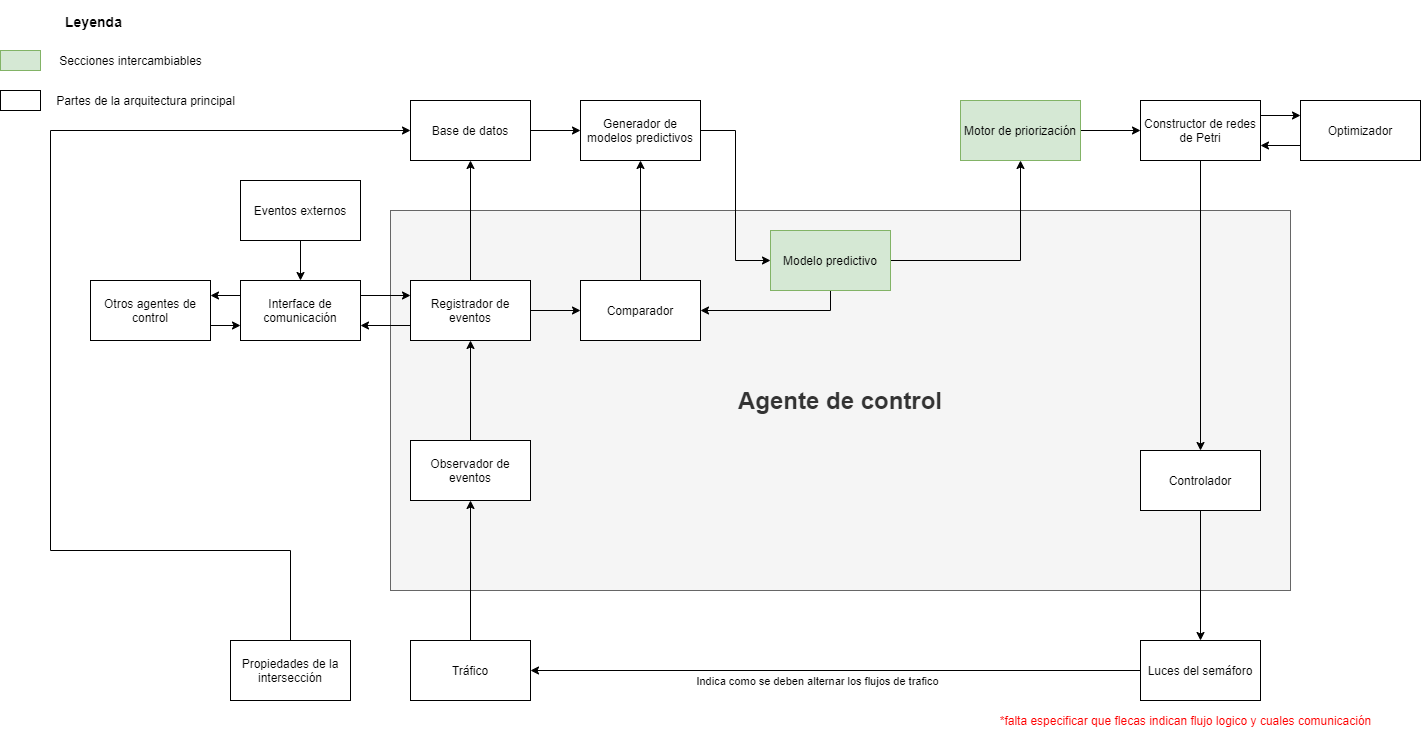
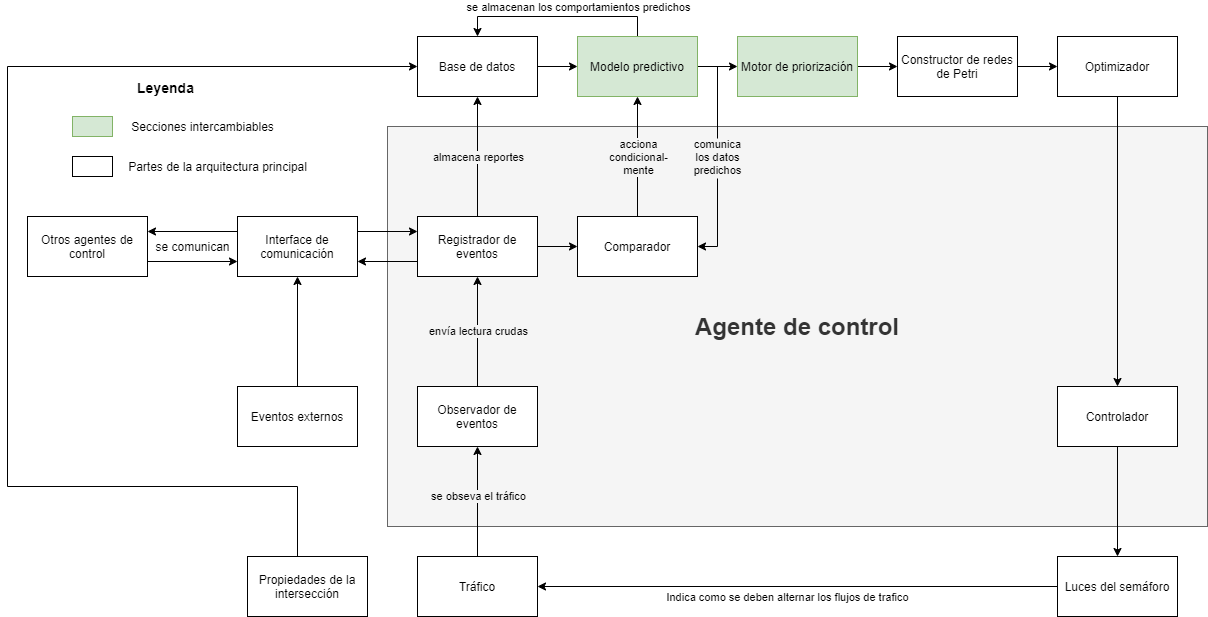
Terminada esta version de la propuesta de la arquitectura y continuada la documentación de su descripción.

diff --git a/Apuntes/arquitectura/Propuesta de arquitectura - Descripcion.md b/Apuntes/arquitectura/Propuesta de arquitectura - Descripcion.md
@@ -9,15 +9,22 @@ geometry: margin=20mm
 Los vehículos que se mueven en los carriles de la intersección y cruzan de un carril a otro en nodos llamados intersecciones.  Sobre las intersecciónes puede haber ubicados semáforos.
 
 # Propiedades de la intersección
-
+Son las propiedades intrínsecas de la intersección que no suelen cambiar con el paso del tiempo:
++ Número de calles.
++ Carriles en cada calle.
++ Extensión aproximada de cada carril.
++ Estructura de la intersección: todas las posibles conexiones entre carriles.
++ Derechos y prioridades de paso.
++ Disposición de las luces del semáforo (cuántas hay y a que intersección apuntan).
++ Existencia de cruces y puentes peatonales, y si tienen algún botón que permita detener el tráfico.
 
 # Observador de eventos
 Su única tarea es ser el sentido de la vista del agente de control. 
-Tiene funciones para observar eventos de interés que sucenden en el mundo real en un momento dado y sus propidades, tales como eventos predecibles:
+Tiene funciones para observar eventos de interés que suceden con regularidad en el mundo real en un momento dado y sus propiedades, tales como:
 
 + El paso de los vehículos, con propiedades como:
   + Ruta que toma (pueden seguir derecho o girar en algún sentido).
-  + Velocidad promedio.
+  + Velocidad promedio aproximada.
   + Cuanto tiempo permanece detenido.
   + Aceleración aproximada.
 + Cambios de luces (en que carril y  a que color cambió).
@@ -27,11 +34,11 @@ Y también notifica eventos emergentes y sus propiedades, como:
 + Aparición de un vehículos de prioridad (de que tipo y en que carril).
 + Un accidente (que carril obstruye).
 
-Todo lo observado se lo comunica  al *Registrador de eventos* indicando el tiempo exacto en el que sucedió (timestamp).
+Todo lo observado lo comunica  al *Registrador de eventos* indicando el tiempo exacto en el que sucedió (*timestamp*).
 
 # Registrador de eventos
 Es el encargado de guardar un caché de los datos crudos enviados por el *Observador de eventos* e interpretarlos, para cada hora generar reportes con datos derivados que se almacenan en la base de datos. 
-Reporte por ciclo de semáforo:
+El reporte generado agrupa los datos por ciclo de semáforo, siendo éstos los siguientes:
 
 - Flujo por carril, es decir, el número de vehículos que pasan por cada carril cada determinado tiempo.
 - Tiempo de espera promedio por carril.
@@ -42,18 +49,20 @@ Reporte por ciclo de semáforo:
 - Cola más larga próxima fase.
 - Tiempo de cambio de la cola más larga en señal roja.
 
-También envía y recibe datos al exterior a través de la interfaz de comunicación, como:
+También recibe datos al exterior a través de la *Interfaz de comunicación*, que se almacenan selectivamente en la base de datos.
 
-- Reportes de intersecciones adyacentes.
-- Notificaciones de eventos externos (como eventos públicos y días festivos que alteran en tráfico).
+# Interfaz de comunicación
+Permite enviar y recibir reportes de otros agentes de control, así como notificaciones de eventos externos que pueden alterar el tráfico, como:
 
-# Interface de comunicación
-Permite recibir datos de otros agentes de control y notificaciones de eventos externos (como sismos, manifestaciones, etc.)
+- Alertas de desastre natural.
+- Eventos públicos y días festivos.
+- Manifestaciones.
 
 # Comparador
-Se encarga de solicitar una nueva predicción cada cierto tiempo fijo, cada que llega un evento externo que lo solicite y cada que la predicción no coincida con lo que está sucediendo realmente en tiempo real.
+Se encarga de comparar constantemente el comportamiento de los eventos registrados con el comportamiento predicho. Cuando estos difieren de manera significativa, el comparador solicita al *Modelo predictivo* que genere una nueva predicción. También se encarga de solicitar nuevas predicciones cada que un evento externo lo solicite.
 
 # Modelo predictivo
+Genera una nueva predicción cada cierto tiempo fijo (cada hora de manera escalonada, usando una cola de espera).
 Se alimenta con el histórico y con el flujo actual, asi como con la hora, dia, el calendario con días festivos y notificaciones externas de eventos.
 Predice que cantidad de trafico relativo habrá en determinada hora (a definir si será de manera numérica o con expresiones relativas de lógica difusa, como *poco*, *mucho* o *normal*).
 
